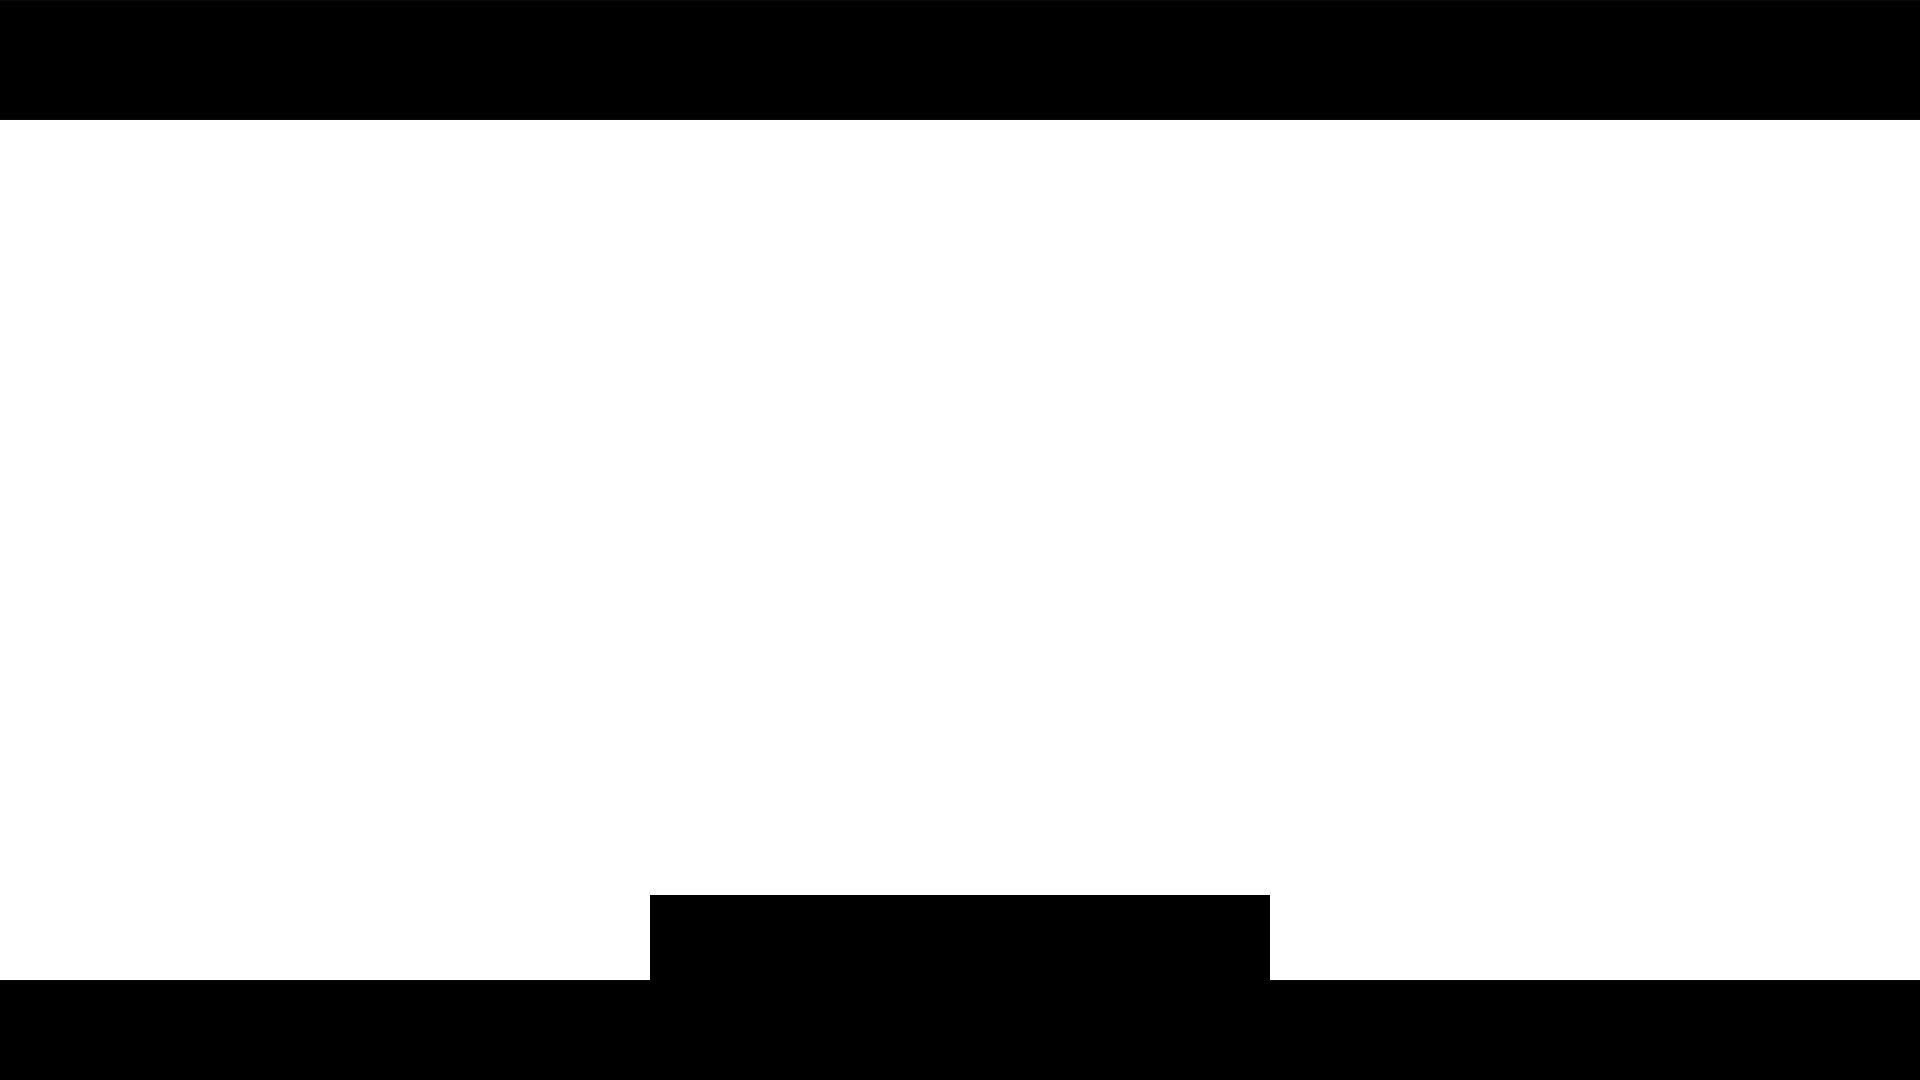
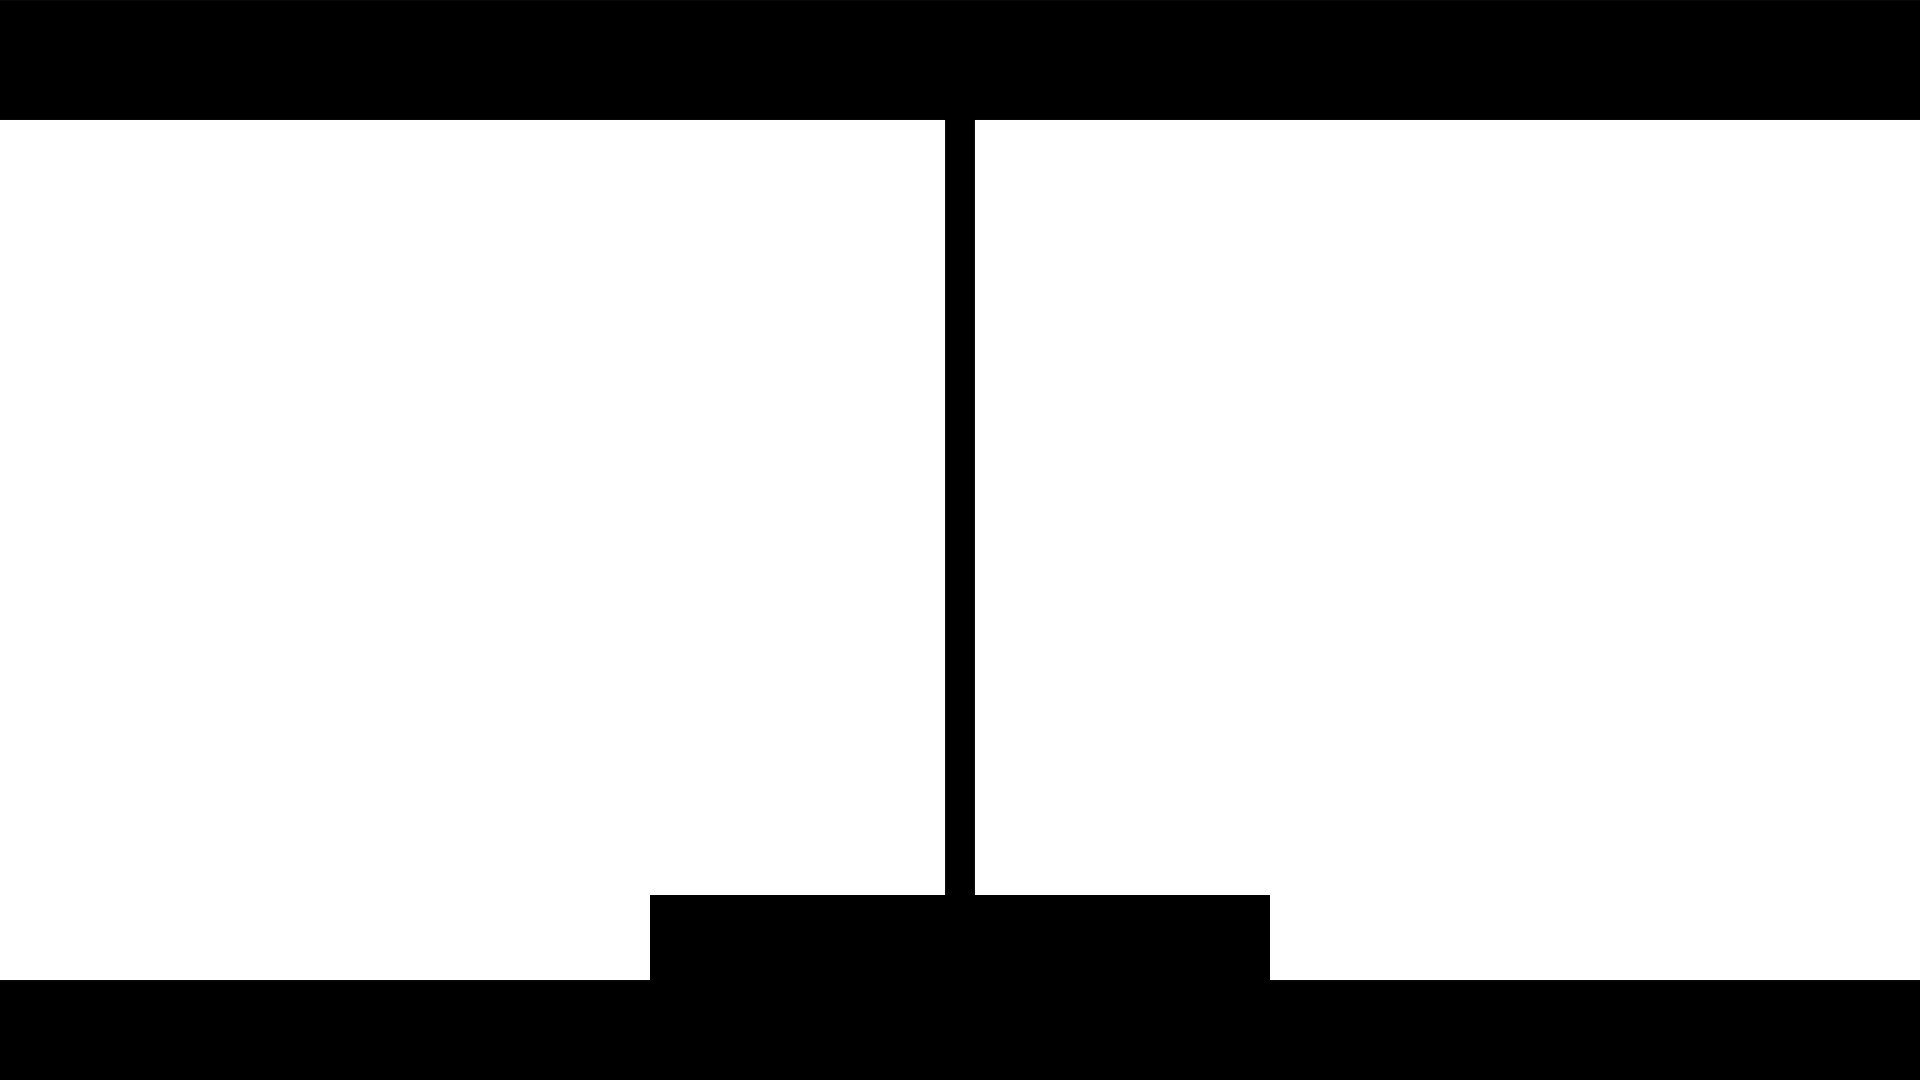
background based on port

Changed region(s): [[0.4688, 0.1222, 0.5312, 0.825]]

diff --git a/src/graphics/thumbnail/ThumbnailObject.jsx b/src/graphics/thumbnail/ThumbnailObject.jsx
@@ -51,7 +51,11 @@ export const ThumbnailObject = () => {
     return (
         <Container>
             <Printable ref={printRef}>
-                <BackgroundImage src={thumbnail_images['thumb-bg']}></BackgroundImage>
+                {/* <BackgroundImage src={thumbnail_images['thumb-bg']}></BackgroundImage> */}
+                <BackgroundElements>
+                    <Player1Background port={setInfo.player1port}></Player1Background>
+                    <Player2Background port={setInfo.player2port}></Player2Background>
+                </BackgroundElements>
                 <Renders>
                     <Player1Render src={getChar(setInfo.player1character, 1)}></Player1Render>
                     <Player2Render src={getChar(setInfo.player2character, 2)}></Player2Render>
@@ -92,6 +96,48 @@ const BackgroundImage = styled.img`
     position: absolute;
     z-index: -10;
 `
+const BackgroundElements = styled.div`
+    display: grid;
+    position: absolute;
+    grid-template-columns: 1fr 1fr;
+    width: 1920px;
+    height: 865px;
+    top: 120px;
+
+`
+
+const Player1Background = styled.div`
+    background: ${props => {
+            switch(Number(props.port)){
+                case 1:
+                    return `linear-gradient(235deg, #ed3636 0%, #760000 100%);`
+                case 2:
+                    return `linear-gradient(235deg, #0070ff 0%, #003c79 100%);`
+                case 3:
+                    return `linear-gradient(235deg, #d6d600 0%, #afaf01 100%);`
+                case 4:
+                    return `linear-gradient(235deg, #4eb94e 0%, #209320 100%);`
+            }   
+        }
+    }}
+`
+
+const Player2Background = styled.div`
+background: ${props => {
+    switch(Number(props.port)){
+        case 1:
+            return `linear-gradient(135deg, #ed3636 0%, #760000 100%);`
+        case 2:
+            return `linear-gradient(135deg, #0070ff 0%, #003c79 100%);`
+        case 3:
+            return `linear-gradient(135deg, #d6d600 0%, #afaf01 100%);`
+        case 4:
+            return `linear-gradient(135deg, #4eb94e 0%, #209320 100%);`
+    }   
+}
+}}
+`
+
 const Renders = styled.div`
     position: absolute;
     display: grid;
